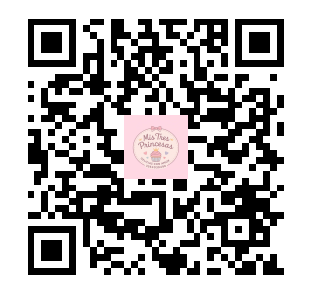
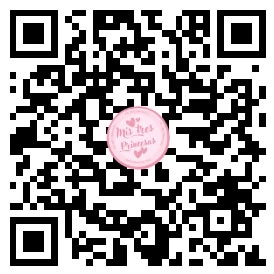
fix url and qr

diff --git a/src/Componentes/Compartir.jsx b/src/Componentes/Compartir.jsx
@@ -5,7 +5,7 @@ const Compartir = ({setSharedLink, setOnQr}) => {
 
     // copia al portapapeles la url
    const sharedApp = () => {
-    navigator.clipboard.writeText('https://mistresprinsesas.vercel.app/') 
+    navigator.clipboard.writeText('https://mistresprincesas.vercel.app/') 
     .then(() => {
       setSharedLink(true)
       setTimeout(() => {
